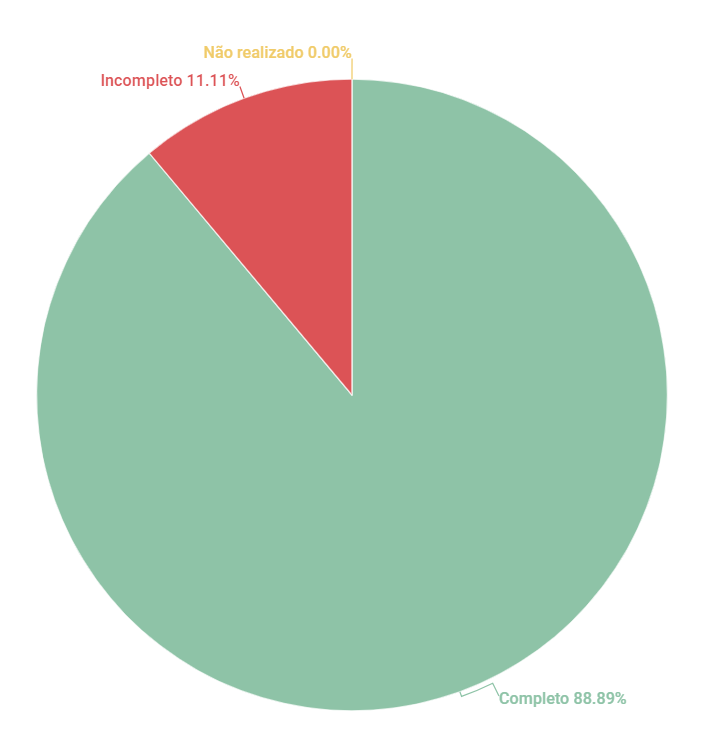
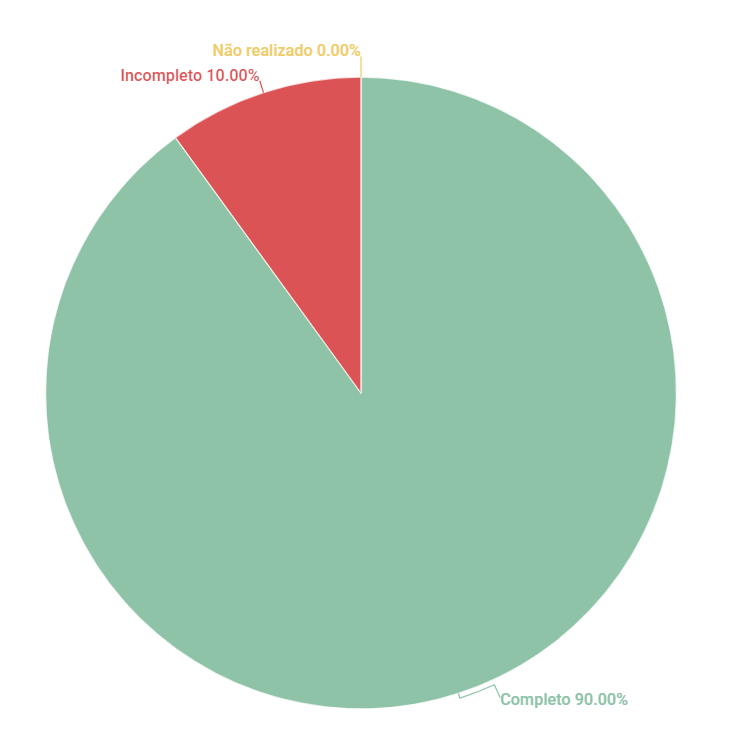
117_finaliza verificacao

diff --git a/docs/verificacao_grupo01/verifica01_casos_uso.md b/docs/verificacao_grupo01/verifica01_casos_uso.md
@@ -1,0 +1,67 @@
+# Casos de uso
+
+## 1. Introdução
+Esse artefato visa realizar a verificação do artefato de casos de uso,  produzido pelo Grupo 01 - Bilheteria Digital, que se encontra [nesse link](https://requisitos-de-software.github.io/2023.1-BilheteriaDigital/modelagem/useCase/).
+É importante lembrar que a versão do artefato que foi verificada é a versão 1.3.
+
+## 2. Metodologia
+Você pode conferir a metodologia utilizada para a verificação do Grupo 01 [nesse link](../planejamento/#2-metodologia).
+
+## 3. Verificação
+
+|ID|Questão|Verificação|
+|:-:|:-:|:-:|
+|1|O artefato possui Introdução e Metodologia descritiva?|Completo|
+|2|O artefato possui referências bibliográficas?|Completo|
+|3|O artefato possui Histórico de versão com data, autor e descrição?|Completo|
+|4|As tabelas e imagems possuem legendas, e são chamadas no corpo do texto?|Completo|
+|5|As ações são representadas por elipses?|Completo|
+|6|Os atores principais se encontram à esquerda do sistema, no diagrama de casos de uso?|Completo|
+|7|Os atores estão fora do limiar do sistema?|Completo|
+|8|Existe uma legenda que descreva os objetos do diagrama?|Completo|
+|9|Os relacioamentos de _exclude_ e _include_ estão diagramadas corretamente?|Completo|
+|10|Os atores possuem identificadores no diagrama? Ex. cliente, usuário|Não realizado|
+|11|Os casos de uso descrevem requisitos funcionais|Completo|
+|12|Está especificada a técnica utilizada para realização dos casos de uso?|Incompleto|
+|13|As ações são indicadas por verbos no infinitivo?|Completo|
+|14|Os casos de uso possuem fluxos alternativos consistentes?|Completo|
+|15|Os casos de uso possuem fluxos de exceção consistentes?|Completo|
+|16|Os casos de uso possuem definição de pré-condições e pós-condições?|Completo|
+|17|Todos os casos de uso possuem rastreabilidade para os respectivos Requisitos?|Completo|
+
+<h6 align = "center"> Tabela 1: Checklist para Verificação do Artefato de casos de uso
+<br> Autor(es): Rafael Nobre
+<br>Fonte: Autor(es)</h6>
+
+## 4. Observações
+
+### ID - 10
+
+No Diagrama de casos de uso, os atores principais não possuem identificador consistente, existe apenas um ator principal e este está identificado como 'Ator'.
+
+### ID - 12
+
+Há apenas a citação no texto, de que foi utilizada uma persona para realização da definição dos casos de uso, porém não há indicação explícita de qual técnica foi utilizada, como Entrevista, Observação, Brainstorm.
+
+## 5. Resultados
+A imagem 1 a seguir apresenta um gráfico de pizza apresentando os resultados, a partir da Tabela 1
+
+![Resultados 100](./imagens_verifica01/result_casos_uso.png)
+<h6 align = "center"> Imagem 1: Resultados da Verificação do Artefato de Casos de Uso
+<br> Autor(es): Rafael Nobre
+<br>Fonte: Autor(es)</h6>
+
+## Referências
+> [LucidChart - Diagramas de casos de uso UML](https://www.lucidchart.com/pages/pt/diagrama-de-caso-de-uso-uml)
+
+> REINEHR, Sheila. Engenharia de requisitos. [Digite o Local da Editora]: Grupo A, 2020. E-book. ISBN 9786556900674. Disponível em: https://integrada.minhabiblioteca.com.br/#/books/9786556900674/. Acesso em: 13 jun. 2023.
+
+> Slides da aula “Requisitos – Aula 11” dos professores Milene Serrano e Maurício Serrano. Disponível em: https://aprender3.unb.br/pluginfile.php/2523100/mod_resource/content/1/Requisitos%20-%20Aula%20013a.pdf Acesso em: 05 de junho de 2023.
+
+## Histórico de versão
+|    Data    | Versão | Descrição                                                                      | Autor(es)  | Revisor  |
+| :--------: | :----: | :----------------------------------------------------------------------------: | :--------: | :------: |
+| 13.06.2023 | 1.0    | Inspeção do artefato de casos de uso |   Rafael   | Bruna  |
+
+<h6 align = "center"> Tabela 2: Histórico de Versões
+<br> Autor: Rafael Nobre </h6>

diff --git a/docs/verificacao_grupo01/verifica01_observacao.md b/docs/verificacao_grupo01/verifica01_observacao.md
@@ -1,7 +1,7 @@
 # Observação
 
 ## 1. Introdução
-Esse artefato visa realizar a verificação do Observação,  produzido pelo Grupo 01 - Bilheteria Digital, que se encontra [nesse link](https://requisitos-de-software.github.io/2023.1-BilheteriaDigital/elicitacao/tecnicas/observacao/).
+Esse artefato visa realizar a verificação do artefato de Observação, produzido pelo Grupo 01 - Bilheteria Digital, que se encontra [nesse link](https://requisitos-de-software.github.io/2023.1-BilheteriaDigital/elicitacao/tecnicas/observacao/).
 É importante lembrar que a versão do artefato que foi verificada é a versão 1.2.
 
 ## 2. Metodologia
@@ -20,6 +20,7 @@ Você pode conferir a metodologia utilizada para a verificação do Grupo 01 [ne
 |7|Os Requisitos elicitados são todos verificáveis?|Completo|
 |8|Todas as tabelas e imagens possuem legendas e chamadas no corpo do texto?|Completo|
 |9|Todos os requisitos possuem códigos de identificação únicos?|Completo|
+|10|Todos os requisitos são testáveis?|Completo|
 
 <h6 align = "center"> Tabela 1: Checklist para Verificação do Artefato de Observação
 <br> Autor(es): Rafael Nobre

diff --git a/docs/verificacao_grupo01/verifica01_aplicativo_escolhido.md b/docs/verificacao_grupo01/verifica01_aplicativo_escolhido.md
@@ -1,7 +1,7 @@
 # Aplicativo Escolhido
 
 ## 1. Introdução
-Esse artefato visa realizar a verificação do Cronograma,  produzido pelo Grupo 01 - Bilheteria Digital, que se encontra [nesse link](https://requisitos-de-software.github.io/2023.1-BilheteriaDigital/planejamento/aplicativo/).
+Esse artefato visa realizar a verificação do Cronograma, produzido pelo Grupo 01 - Bilheteria Digital, que se encontra [nesse link](https://requisitos-de-software.github.io/2023.1-BilheteriaDigital/planejamento/aplicativo/).
 É importante lembrar que a versão do artefato que foi verificada é a versão 1.2.
 
 ## 2. Metodologia

diff --git a/docs/verificacao_grupo01/verifica01_cronograma.md b/docs/verificacao_grupo01/verifica01_cronograma.md
@@ -1,7 +1,7 @@
 # Cronograma
 
 ## 1. Introdução
-Esse artefato visa realizar a verificação do Cronograma,  produzido pelo Grupo 01 - Bilheteria Digital, que se encontra [nesse link](https://requisitos-de-software.github.io/2023.1-BilheteriaDigital/planejamento/cronograma/).
+Esse artefato visa realizar a verificação do Cronograma, produzido pelo Grupo 01 - Bilheteria Digital, que se encontra [nesse link](https://requisitos-de-software.github.io/2023.1-BilheteriaDigital/planejamento/cronograma/).
 É importante lembrar que a versão do artefato que foi verificada é a versão 1.3.
 
 ## 2. Metodologia
